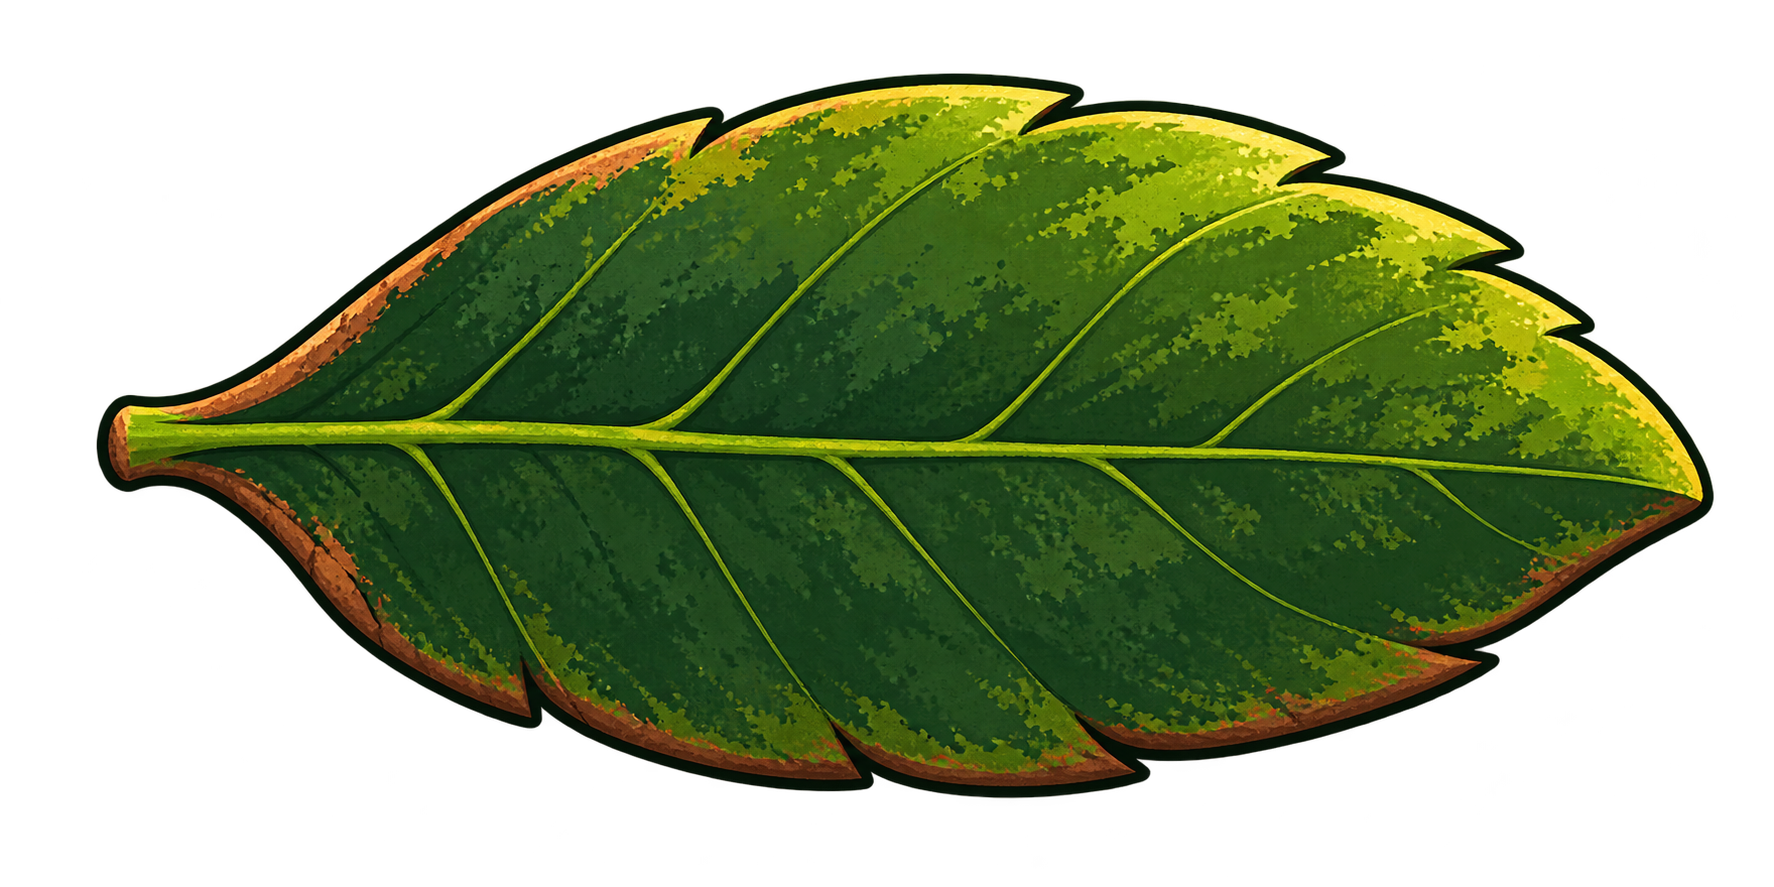
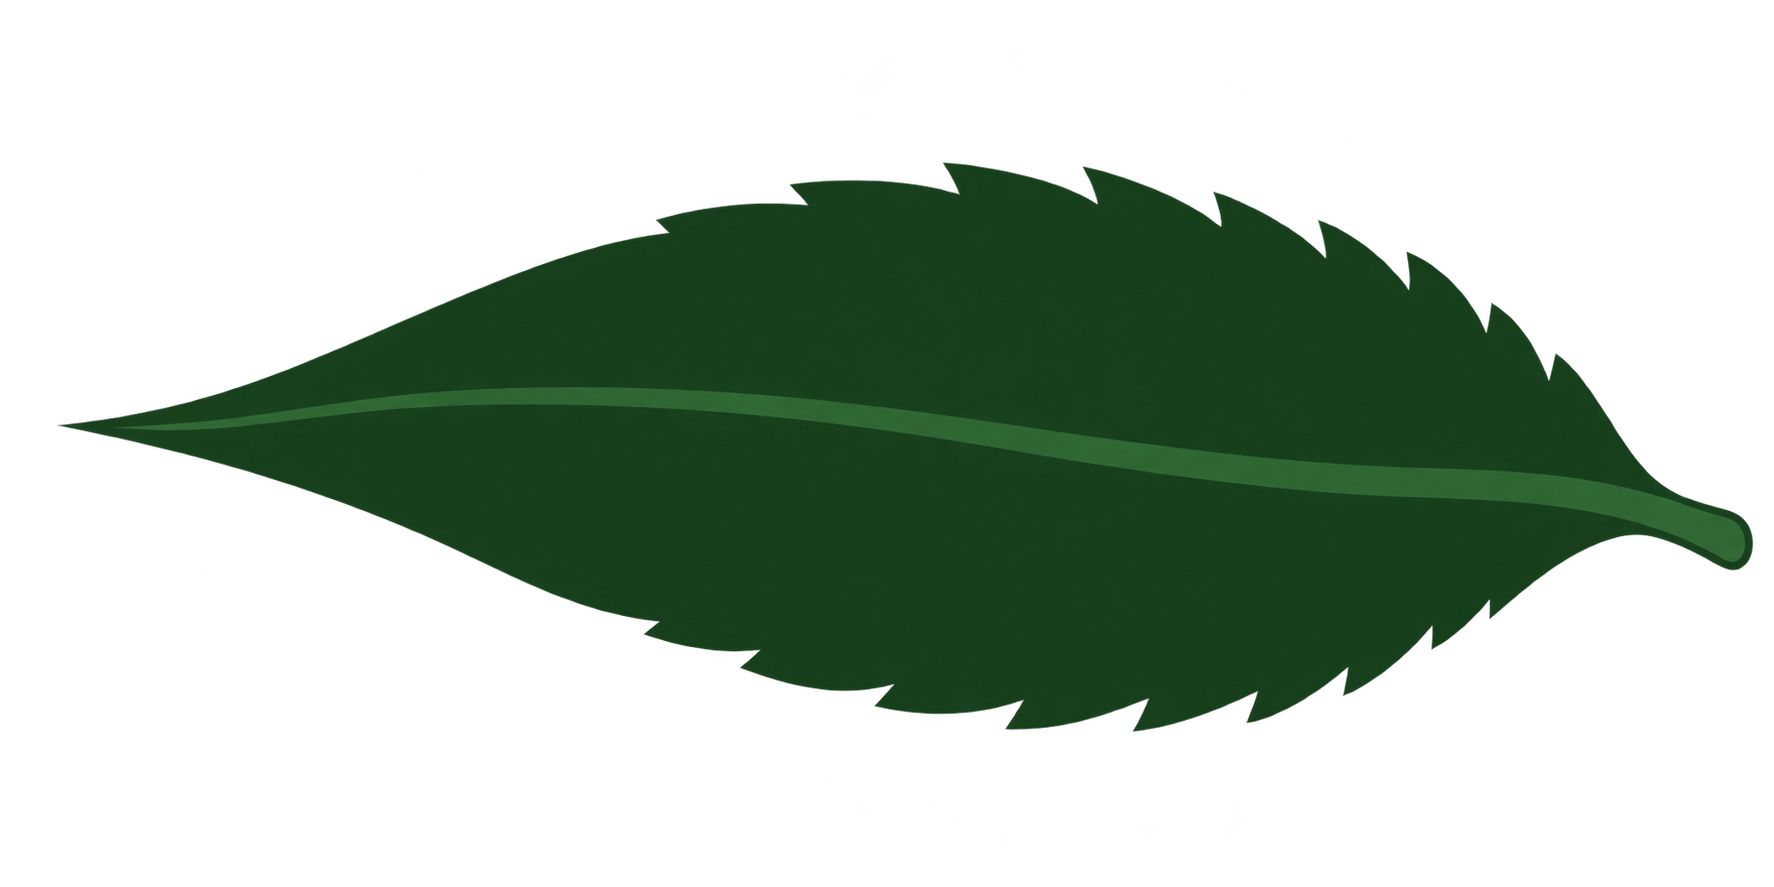
Add park-specific environmental dashboards

diff --git a/web/src/index.css b/web/src/index.css
@@ -16,6 +16,21 @@ button:active, a:active { transform: translateY(1px); }
 .filter-toggle { min-height: 36px; }
 .touch-target { min-height: 44px; }
 .chart-scroll { overflow-x: auto; }
+.park-layout { display: grid; grid-template-columns: minmax(0, 1fr) minmax(18rem, 22rem); gap: 1.5rem; align-items: start; }
+.park-main-column { position: relative; min-width: 0; isolation: isolate; }
+.park-main-column > *:not(.river-background):not(.yellowstone-trail-background) { position: relative; z-index: 1; }
+.desktop-chat-sidebar { position: sticky; top: 1rem; min-width: 0; height: calc(100vh - 2rem); }
+.desktop-chat-panel { display: flex; height: 100%; min-height: 32rem; flex-direction: column; overflow: hidden; }
+.desktop-chat-panel > div:last-child { max-height: none !important; flex: 1; overflow-y: auto; }
+.desktop-camera-dashboard { position: relative; display: grid; gap: 1.5rem; isolation: isolate; }
+.river-background { position: absolute; z-index: 0; inset: -2rem -8% -2rem -8%; min-height: 100%; background: url('/river/river-winding.svg') center top / 135% 100% no-repeat; opacity: .42; pointer-events: none; }
+.yellowstone-trail-background { position: absolute; z-index: 0; inset: -2rem -8% -2rem -8%; min-height: 100%; background: url('/yellowstone/trail-winding.svg') center top / 100% 100% no-repeat; opacity: .52; pointer-events: none; }
+.desktop-dashboard-section { min-width: 0; }
+.desktop-section-title { margin-bottom: .7rem; color: #365b3d; font-size: 1.05rem; font-weight: 700; letter-spacing: .01em; }
+.mobile-camera-page, .mobile-chat-route { display: none; }
+.yellowstone-theme .desktop-camera-dashboard .camera-grid { grid-template-columns: repeat(2, minmax(0, 1fr)); }
+.yellowstone-theme .desktop-camera-dashboard .yellowstone-camera-card { width: 100%; min-height: 10.5rem; }
+.yellowstone-theme .desktop-camera-dashboard .yellowstone-camera-card > p { width: min(100%, 22rem); }
 .globe-loading { display: grid; place-items: center; min-height: 100vh; background: #fafaf9; color: #166534; font-weight: 700; }
 .globe-brand h1 { letter-spacing: -.02em; text-shadow: 0 2px 12px rgba(0,0,0,.55); }
 .globe-brand p { text-shadow: 0 1px 8px rgba(0,0,0,.7); }
@@ -31,10 +46,17 @@ button:active, a:active { transform: translateY(1px); }
 .katmai-theme .bg-emerald-600:hover, .katmai-theme .bg-emerald-700:hover { background-color: var(--park-accent-strong) !important; }
 .katmai-theme .text-emerald-800 { color: var(--park-accent-strong) !important; }
 .katmai-theme .border-emerald-200, .katmai-theme .border-emerald-100 { border-color: #bae6fd !important; }
+.katmai-theme .desktop-section-title { color: #075985; }
+.katmai-theme .katmai-prediction-card { background: #0c6b88 !important; border-color: #075985 !important; color: #e0f2fe; }
+.katmai-theme .katmai-prediction-card .text-emerald-800 { color: #f0f9ff !important; }
+.katmai-theme .katmai-prediction-card .text-stone-900, .katmai-theme .katmai-prediction-card .text-stone-800 { color: #ffffff !important; }
+.katmai-theme .katmai-prediction-card .text-stone-600, .katmai-theme .katmai-prediction-card .text-stone-500 { color: #d7f0fb !important; }
+.katmai-theme .katmai-prediction-card .border-emerald-100 { border-color: rgba(224,242,254,.35) !important; }
 .katmai-theme .from-emerald-50 { --tw-gradient-from: #e0f2fe var(--tw-gradient-from-position) !important; }
 .katmai-environment { position: relative; isolation: isolate; overflow: hidden; }
 .katmai-environment::before { content: ''; position: absolute; z-index: -2; right: -18%; bottom: 8%; left: -18%; height: 14rem; transform: rotate(-3deg); border-top: 2px solid rgba(14,116,144,.2); border-bottom: 2px solid rgba(14,116,144,.2); background: linear-gradient(180deg, rgba(125,211,252,.16), rgba(14,165,233,.3) 48%, rgba(2,132,199,.14)); clip-path: polygon(0 36%, 12% 25%, 26% 35%, 40% 16%, 55% 31%, 70% 14%, 86% 28%, 100% 18%, 100% 82%, 84% 72%, 68% 84%, 52% 70%, 36% 87%, 20% 69%, 0 80%); pointer-events: none; }
 .katmai-environment::after { content: ''; position: absolute; z-index: -1; top: 4.75rem; right: 0; left: 0; height: 4px; background: repeating-linear-gradient(90deg, transparent 0 22px, rgba(14,116,144,.22) 22px 38px, transparent 38px 64px); pointer-events: none; }
+.katmai-environment::before { content: none; }
 .katmai-waterline { display: flex; align-items: center; gap: .6rem; width: min(28rem, 100%); margin-top: .7rem; color: #0284c7; font-size: 1.1rem; letter-spacing: .35rem; }
 .katmai-waterline span:nth-child(2) { flex: 1; overflow: hidden; color: #38bdf8; font-size: 1.5rem; letter-spacing: .1rem; white-space: nowrap; }
 .katmai-fish { margin-right: .3rem; font-size: .9rem; }
@@ -45,23 +67,26 @@ button:active, a:active { transform: translateY(1px); }
 .yellowstone-page .bg-emerald-600:hover, .yellowstone-page .bg-emerald-700:hover { background-color: #23472f !important; }
 .yellowstone-page .bg-amber-500 { background-color: #9a6b2f !important; }
 .yellowstone-page .bg-amber-500:hover { background-color: #79532a !important; }
+.yellowstone-page .yellowstone-prediction-card { background: #fafaf9 !important; border-color: #d4dfc9 !important; }
 .yellowstone-environment { position: relative; isolation: isolate; overflow: hidden; }
 .yellowstone-environment::before { content: ''; position: absolute; z-index: -2; right: -12%; bottom: 5%; left: -12%; height: 12rem; transform: rotate(2deg); border-top: 2px solid rgba(46,91,62,.25); background: linear-gradient(165deg, rgba(46,91,62,.16), rgba(134,154,88,.2) 48%, rgba(139,115,85,.16)); clip-path: polygon(0 26%, 18% 35%, 34% 17%, 52% 31%, 68% 18%, 84% 35%, 100% 22%, 100% 78%, 82% 68%, 63% 85%, 45% 70%, 27% 86%, 10% 70%, 0 82%); pointer-events: none; }
 .yellowstone-environment::after { content: ''; position: absolute; z-index: -1; top: 4.75rem; right: 0; left: 0; height: 5px; background: repeating-linear-gradient(90deg, transparent 0 14px, rgba(139,115,85,.36) 14px 36px, transparent 36px 58px); pointer-events: none; }
+.yellowstone-environment::before { content: none; }
 .yellowstone-trail { display: flex; align-items: center; gap: .6rem; width: min(28rem, 100%); margin-top: .7rem; color: #2e5b3e; font-size: 1.1rem; letter-spacing: .18rem; }
 .yellowstone-trail span:nth-child(2) { flex: 1; overflow: hidden; color: #8b7355; font-size: 1.3rem; white-space: nowrap; }
-.yellowstone-camera-card { position: relative; isolation: isolate; display: flex !important; min-height: 10.5rem; flex-direction: column; align-items: center; justify-content: center; gap: .2rem; border: 0 !important; border-radius: 0 !important; background-color: transparent !important; background-image: url('/yellowstone/leaf-camera-button.png') !important; background-position: center !important; background-size: 100% 100% !important; background-repeat: no-repeat !important; clip-path: polygon(0 50%, 7% 38%, 16% 20%, 31% 8%, 49% 4%, 66% 8%, 82% 21%, 95% 40%, 100% 50%, 95% 60%, 82% 79%, 66% 92%, 49% 96%, 31% 92%, 16% 80%, 7% 62%); padding: 1.7rem 3rem !important; text-align: center; filter: drop-shadow(0 5px 5px rgba(31,61,36,.2)); transition: filter .2s ease, transform .2s ease; }
+.yellowstone-camera-card { position: relative; isolation: isolate; display: flex !important; width: min(100%, 25rem); min-height: 10.5rem; height: auto; margin-inline: auto; flex-direction: column; align-items: center; justify-content: center; gap: .2rem; border: 0 !important; border-radius: 0 !important; background-color: transparent !important; background-image: url('/yellowstone/leaf-camera-button.png') !important; background-position: center !important; background-size: 100% 100% !important; background-repeat: no-repeat !important; clip-path: polygon(0 50%, 8% 45%, 16% 36%, 25% 25%, 36% 16%, 48% 10%, 60% 9%, 71% 13%, 81% 20%, 89% 30%, 95% 41%, 100% 50%, 95% 58%, 89% 68%, 81% 77%, 71% 85%, 60% 91%, 48% 94%, 36% 91%, 25% 84%, 16% 74%, 8% 62%); padding: 2rem clamp(2.2rem, 8vw, 3rem) !important; text-align: center; transition: transform .2s ease; }
 .yellowstone-camera-card::before, .yellowstone-camera-card::after { content: none; }
-.yellowstone-camera-card:hover { filter: drop-shadow(0 7px 7px rgba(31,61,36,.28)); transform: translateY(-1px); }
-.yellowstone-camera-card:focus-visible { outline: none; filter: drop-shadow(0 0 4px #f3df9b) drop-shadow(0 0 7px rgba(216,181,102,.8)); }
+.yellowstone-page .yellowstone-camera-card { background-color: transparent !important; box-shadow: none !important; }
+html[data-theme='dark'] .yellowstone-page .yellowstone-camera-card { background-color: transparent !important; box-shadow: none !important; }
+.yellowstone-camera-card:hover { transform: translateY(-1px); }
+.yellowstone-camera-card:focus-visible { outline: none; box-shadow: inset 0 0 0 3px #f3df9b; }
 .yellowstone-camera-card > * { position: relative; z-index: 1; }
-.yellowstone-camera-card > p { width: min(100%, 29rem); margin: 0 !important; line-height: 1.35; overflow-wrap: anywhere; }
+.yellowstone-camera-card > p { width: min(100%, 20rem); margin: 0 !important; line-height: 1.35; overflow-wrap: anywhere; }
 .yellowstone-camera-card > p:first-child { font-size: clamp(.95rem, 2vw, 1.08rem); }
 .yellowstone-camera-card .text-stone-900 { color: #f3f5d8 !important; }
 .yellowstone-camera-card .text-stone-700, .yellowstone-camera-card .text-stone-500 { color: #d5dfb9 !important; }
-.yellowstone-camera-card[aria-disabled='true'] { filter: grayscale(.35) drop-shadow(0 4px 4px rgba(31,61,36,.16)); }
-html[data-theme='dark'] .yellowstone-camera-card { filter: drop-shadow(0 6px 7px rgba(0,0,0,.38)); }
-@media (max-width: 640px) { .yellowstone-camera-card { min-height: 10rem; padding: 1.5rem 2.4rem !important; } }
+.yellowstone-camera-card[aria-disabled='true'] { opacity: .68; }
+@media (max-width: 640px) { .yellowstone-camera-card { width: min(100%, 23rem); min-height: 10rem; padding: 1.7rem 1.8rem !important; } }
 .katmai-camera-card { position: relative; isolation: isolate; display: flex !important; min-height: 10rem; flex-direction: column; align-items: center; justify-content: center; gap: .2rem; border: 0 !important; border-radius: 0 !important; background-color: transparent !important; background-image: url('/katmai/rock-camera-button.png') !important; background-position: center !important; background-size: 100% 100% !important; background-repeat: no-repeat !important; clip-path: polygon(0 50%, 6% 31%, 16% 13%, 34% 4%, 61% 5%, 84% 15%, 96% 32%, 100% 50%, 96% 68%, 84% 85%, 61% 95%, 34% 96%, 16% 87%, 6% 69%); padding: 1.5rem 2.75rem !important; text-align: center; color: #102b3d; filter: drop-shadow(0 5px 5px rgba(3,64,91,.28)); transition: filter .2s ease, transform .2s ease; }
 .katmai-camera-card::before, .katmai-camera-card::after { content: none; }
 .katmai-camera-card:hover { filter: drop-shadow(0 7px 7px rgba(3,64,91,.36)); transform: translateY(-1px); }
@@ -86,6 +111,11 @@ html[data-theme='dark'] .katmai-waterline { color: #38bdf8; }
 html[data-theme='dark'] .katmai-canopy { background: linear-gradient(145deg, #041827, #073552 52%, #075985) !important; }
 @keyframes shimmer { to { background-position: -200% 0; } }
 @media (max-width: 639px) {
+  .park-layout { display: block; }
+  .desktop-chat-sidebar, .desktop-camera-dashboard { display: none; }
+  .mobile-camera-page, .mobile-chat-route { display: block; }
+  .river-background { inset: -1rem -28%; background-size: 150% 100%; opacity: .18; }
+  .yellowstone-trail-background { inset: -1rem -28%; opacity: .2; }
   .app-main { padding-bottom: calc(5.5rem + env(safe-area-inset-bottom)); }
   .desktop-nav { display: none; }
   .mobile-nav { position: fixed; z-index: 40; right: 0; bottom: 0; left: 0; display: block; padding: .5rem .75rem calc(.5rem + env(safe-area-inset-bottom)); border-top: 1px solid #d6d3d1; background: rgba(255,255,255,.96); box-shadow: 0 -4px 18px rgba(28,25,23,.08); }
@@ -129,6 +159,8 @@ html[data-theme='dark'] .katmai-theme .text-stone-900 { color: #effaff !importan
 html[data-theme='dark'] .katmai-theme .text-stone-800 { color: #d7f0fb !important; }
 html[data-theme='dark'] .katmai-theme .text-stone-500 { color: #9fc4d5 !important; }
 html[data-theme='dark'] .katmai-theme .border-stone-200 { border-color: #21465e !important; }
+html[data-theme='dark'] .katmai-theme .desktop-section-title { color: #a8e1fa; }
+html[data-theme='dark'] .katmai-theme .katmai-prediction-card { background: #075985 !important; border-color: #38bdf8 !important; }
 html[data-theme='dark'] .katmai-theme .bg-emerald-100 { background-color: #0b3a55 !important; }
 html[data-theme='dark'] .katmai-theme .text-emerald-800, html[data-theme='dark'] .katmai-theme .text-emerald-700 { color: #a8e1fa !important; }
 html[data-theme='dark'] .katmai-page { background: #061522 !important; color: #e7f7ff; }
@@ -156,3 +188,5 @@ html[data-theme='dark'] .yellowstone-page .bg-stone-100 { background-color: #2a3
 html[data-theme='dark'] .yellowstone-page .text-stone-900 { color: #edf5df !important; }
 html[data-theme='dark'] .yellowstone-page .text-stone-500 { color: #b9c99b !important; }
 html[data-theme='dark'] .yellowstone-page .border-stone-200 { border-color: #536d48 !important; }
+html[data-theme='dark'] .yellowstone-page .yellowstone-prediction-card { background: #101d14 !important; border-color: #536d48 !important; }
+html[data-theme='dark'] .app-shell.yellowstone-page .yellowstone-camera-card { background-color: transparent !important; box-shadow: none !important; }

diff --git a/web/src/pages/ParkPage.jsx b/web/src/pages/ParkPage.jsx
@@ -7,8 +7,8 @@ import AnalyticsPage from './AnalyticsPage'
 import CamerasPage from './CamerasPage'
 import FeedPage from './FeedPage'
 
-function Predictions() {
-  return <PredictionCard {...usePredictions()} />
+function Predictions({ park }) {
+  return <PredictionCard park={park} {...usePredictions()} />
 }
 
 const KATMAI_CAMERA_PREVIEWS = [
@@ -44,26 +44,53 @@ export default function ParkPage({ slug, tab, sightings, cameras, loading, mode 
 
   return (
     <div className={`${themeClass} ${slug === 'katmai' ? 'katmai-environment' : ''} ${slug === 'yellowstone' ? 'yellowstone-environment' : ''}`}>
-      <div className="mb-4">
-        <a href="#/" className="back-button mb-3"><span className="back-arrow" aria-hidden>←</span> Globe</a>
-        <h2 className="text-xl font-bold text-stone-900">{park?.name ?? slug}</h2>
-        {park?.region && <p className="text-sm text-stone-500">{park.region}</p>}
-        {slug === 'katmai' && <div className="katmai-waterline" aria-hidden><span>🐟</span><span>〰</span><span>🐟</span></div>}
-        {slug === 'yellowstone' && <div className="yellowstone-trail" aria-hidden><span>🦬</span><span>━━━</span><span>♨</span></div>}
-      </div>
+      <div className="park-layout">
+        <section className="park-main-column">
+          {slug === 'katmai' && <div className="river-background" aria-hidden="true" />}
+          {slug === 'yellowstone' && <div className="yellowstone-trail-background" aria-hidden="true" />}
+          <div className="mb-4">
+            <a href="#/" className="back-button mb-3"><span className="back-arrow" aria-hidden>←</span> Globe</a>
+            <h2 className="text-xl font-bold text-stone-900">{park?.name ?? slug}</h2>
+            {park?.region && <p className="text-sm text-stone-500">{park.region}</p>}
+            {slug === 'katmai' && <div className="katmai-waterline" aria-hidden><span>🐟</span><span>〰</span><span>🐟</span></div>}
+            {slug === 'yellowstone' && <div className="yellowstone-trail" aria-hidden><span>🦬</span><span>━━━</span><span>♨</span></div>}
+          </div>
 
-      {!park?.active ? (
-        slug === 'katmai' && tab === 'cameras' ? <KatmaiCameraPreviews /> : <p className="rounded-lg bg-stone-100 px-3 py-4 text-stone-600">No cameras here yet. Check back later.</p>
-      ) : (
-        <>
-          <div className="mb-5"><Nav park={slug} tab={tab} /></div>
-          {tab === 'sightings' && <FeedPage sightings={parkSightings} cameras={parkCameras} loading={loading} mode={mode} />}
-          {tab === 'cameras' && <CamerasPage park={slug} sightings={parkSightings} cameras={parkCameras} />}
-          {tab === 'predictions' && <Predictions />}
-          {tab === 'chat' && <div className="katmai-chat-zone"><ChatPanel park={slug} /></div>}
-          {tab === 'analytics' && <AnalyticsPage sightings={parkSightings} loading={loading} mode={mode} />}
-        </>
-      )}
+          {!park?.active ? (
+            slug === 'katmai' && tab === 'cameras' ? <KatmaiCameraPreviews /> : <p className="rounded-lg bg-stone-100 px-3 py-4 text-stone-600">No cameras here yet. Check back later.</p>
+          ) : (
+            <>
+              <div className="mb-5"><Nav park={slug} tab={tab} /></div>
+              {tab === 'cameras' && (
+                <>
+                  <div className="desktop-camera-dashboard">
+                    <section className="desktop-dashboard-section" aria-labelledby={`${slug}-camera-views`}>
+                      <h3 id={`${slug}-camera-views`} className="desktop-section-title">Camera views</h3>
+                      <CamerasPage park={slug} sightings={parkSightings} cameras={parkCameras} />
+                    </section>
+                    <section className="desktop-dashboard-section" aria-labelledby={`${slug}-predictions`}>
+                      <h3 id={`${slug}-predictions`} className="desktop-section-title">Predictions</h3>
+                      <Predictions park={slug} />
+                    </section>
+                    <section className="desktop-dashboard-section" aria-labelledby={`${slug}-recent-sightings`}>
+                      <h3 id={`${slug}-recent-sightings`} className="desktop-section-title">Recent sightings</h3>
+                      <FeedPage sightings={parkSightings} cameras={parkCameras} loading={loading} mode={mode} />
+                    </section>
+                  </div>
+                  <div className="mobile-camera-page"><CamerasPage park={slug} sightings={parkSightings} cameras={parkCameras} /></div>
+                </>
+              )}
+              {tab === 'sightings' && <FeedPage sightings={parkSightings} cameras={parkCameras} loading={loading} mode={mode} />}
+              {tab === 'predictions' && <Predictions park={slug} />}
+              {tab === 'chat' && <div className="mobile-chat-route"><div className="katmai-chat-zone"><ChatPanel park={slug} /></div></div>}
+              {tab === 'analytics' && <AnalyticsPage sightings={parkSightings} loading={loading} mode={mode} />}
+            </>
+          )}
+        </section>
+        <aside className="desktop-chat-sidebar" aria-label={`${park?.name ?? slug} chat`}>
+          <ChatPanel park={slug} desktop />
+        </aside>
+      </div>
     </div>
   )
 }

diff --git a/web/src/components/ChatPanel.jsx b/web/src/components/ChatPanel.jsx
@@ -6,11 +6,35 @@ import ThreadPanel from './ThreadPanel'
 const pretty = (park) => park.replace(/-/g, ' ').replace(/\b\w/g, (c) => c.toUpperCase())
 
 // One live chat room per park.
-export default function ChatPanel({ park }) {
+export default function ChatPanel({ park, desktop = false }) {
   const { messages, post, error, usingMock } = useThread('chat_messages', 'park', park, makeMockChat(park))
   const [view, setView] = useState('bubble')
   const title = `${pretty(park)} chat`
   const latest = messages[messages.length - 1]
+
+  if (desktop) {
+    return (
+      <section className="desktop-chat-panel rounded-2xl border border-stone-200 bg-white shadow-sm" aria-label={title}>
+        <div className={`flex items-center justify-between gap-3 bg-emerald-700 px-4 py-3 text-white ${park === 'katmai' ? 'katmai-canopy' : ''}`}>
+          <div>
+            <h3 className="font-semibold">💬 {title}</h3>
+            {usingMock && <span className="text-xs text-emerald-100">sample chat</span>}
+          </div>
+          {latest && <span className="text-xs text-emerald-100">Live room</span>}
+        </div>
+        <div className="max-h-[calc(100vh-12rem)] overflow-y-auto p-4">
+          <ThreadPanel
+            compact
+            title={title}
+            messages={messages}
+            onPost={post}
+            error={error}
+            empty="No messages yet. Say hi to other visitors."
+          />
+        </div>
+      </section>
+    )
+  }
 
   return (
     <div className={`chat-dock fixed right-4 z-50 ${park === 'katmai' ? 'katmai-chat' : ''}`}>

diff --git a/web/src/components/Nav.jsx b/web/src/components/Nav.jsx
@@ -6,15 +6,26 @@ const link = (active) =>
   }`
 
 export default function Nav({ park, tab }) {
+  const icon = park === 'katmai' ? <span className="katmai-fish" aria-hidden>🐟</span> : <span className="yellowstone-bison" aria-hidden>🦬</span>
+  const renderLink = (t) => (
+    <a key={t} href={parkHref(park, t)} className={link(t === tab)} aria-current={t === tab ? 'page' : undefined}>
+      {icon}
+      {t}
+    </a>
+  )
+
   return (
-    <nav className="flex flex-wrap gap-1" aria-label="Park sections">
-      {TABS.map((t) => (
-        <a key={t} href={parkHref(park, t)} className={link(t === tab)} aria-current={t === tab ? 'page' : undefined}>
-          {park === 'katmai' && <span className="katmai-fish" aria-hidden>🐟</span>}
-          {park === 'yellowstone' && <span className="yellowstone-bison" aria-hidden>🦬</span>}
-          {t}
-        </a>
-      ))}
-    </nav>
+    <>
+      <div className="desktop-nav">
+        <nav className="flex flex-wrap gap-1" aria-label="Primary park sections">
+          {['cameras', 'analytics'].map(renderLink)}
+        </nav>
+      </div>
+      <div className="mobile-nav">
+        <nav className="flex flex-wrap gap-1" aria-label="Park sections">
+          {TABS.map(renderLink)}
+        </nav>
+      </div>
+    </>
   )
 }

diff --git a/web/src/components/PredictionCard.jsx b/web/src/components/PredictionCard.jsx
@@ -32,14 +32,14 @@ function Where({ camera }) {
   )
 }
 
-export default function PredictionCard({ predictions, loading, usingMock }) {
+export default function PredictionCard({ predictions, loading, usingMock, park }) {
   if (loading) return null
   const [next, ...later] = predictions
 
   return (
     <section
       aria-label="Sighting predictions"
-      className="mb-6 rounded-2xl border border-emerald-200 bg-gradient-to-br from-emerald-50 to-white p-5 shadow-sm"
+      className={`prediction-card mb-6 rounded-2xl border border-emerald-200 bg-gradient-to-br from-emerald-50 to-white p-5 shadow-sm ${park === 'yellowstone' ? 'yellowstone-prediction-card' : ''} ${park === 'katmai' ? 'katmai-prediction-card' : ''}`}
     >
       <div className="mb-3 flex items-center justify-between gap-2">
         <h2 className="text-sm font-semibold uppercase tracking-wide text-emerald-800">🔮 Coming up</h2>

diff --git a/web/src/pages/CamerasPage.jsx b/web/src/pages/CamerasPage.jsx
@@ -9,7 +9,7 @@ export default function CamerasPage({ sightings, cameras, park }) {
   if (cameras.length === 0) return <p className="text-stone-500">No cameras registered yet.</p>
 
   return (
-    <ul className="grid gap-3 sm:grid-cols-2">
+    <ul className="camera-grid grid gap-3 sm:grid-cols-2">
       {cameras.map((cam) => {
         const mine = sightings.filter((s) => s.camera.id === cam.id) // newest first
         const unavailable = mode === 'live' && !hasLiveFeed(cam)
